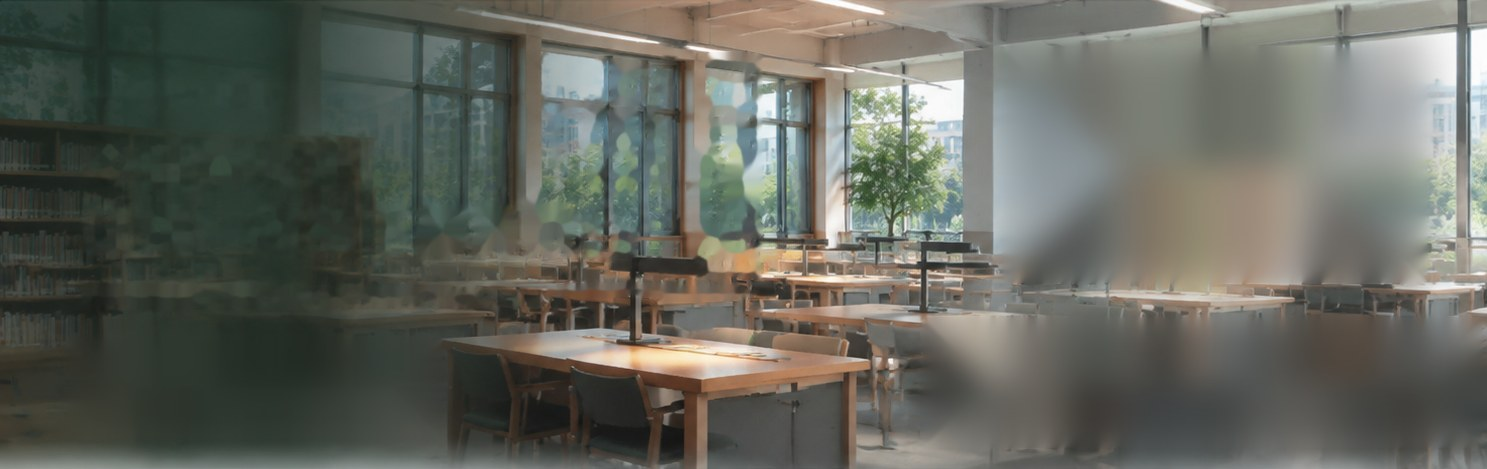
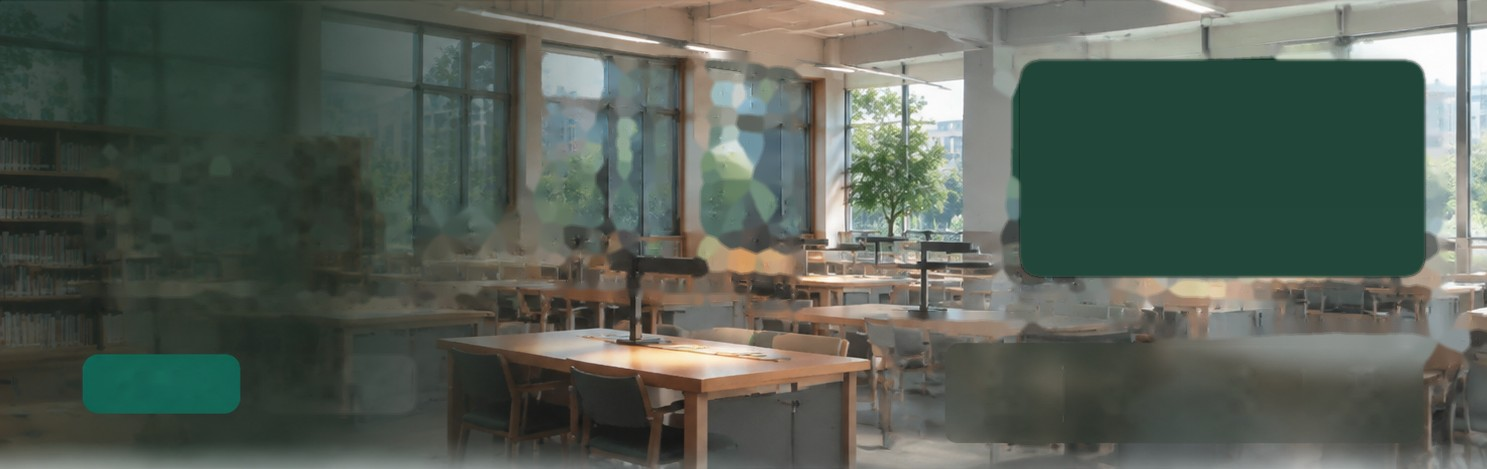
前端：首页hero改为清晰照片并按比例对齐黑板面板，统计区去模糊

diff --git a/frontend/src/views/HomeView.vue b/frontend/src/views/HomeView.vue
@@ -399,9 +399,10 @@ function timeText(row) {
   position: relative;
   /* 冲出版心 padding，左右铺到视口边缘 */
   margin: -28px calc(50% - 50vw) 0;
-  min-height: clamp(430px, 54vh, 640px);
+  /* 与照片同比例铺满，背景 100% 100% 不裁切，黑板面板可按百分比与照片位置精确对齐 */
+  aspect-ratio: 1487 / 469;
   padding: 0;
-  background: #24322e url('/images/home-hero-room.jpg') center / cover no-repeat;
+  background: #24322e url('/images/home-hero-room.jpg') 0 0 / 100% 100% no-repeat;
   overflow: hidden;
   display: flex;
   flex-direction: column;
@@ -485,8 +486,8 @@ function timeText(row) {
 .hero-kpi b { display: block; font-family: var(--font-display); font-size: 34px; font-weight: 600; line-height: 1.1; color: #ffffff; font-variant-numeric: tabular-nums; text-shadow: 0 2px 16px rgba(4, 10, 12, .5); }
 .hero-kpi span { display: block; margin-top: 8px; font-size: 13px; color: rgba(255, 255, 255, .85); }
 
-/* 右上角黑板面板：我的学习安排 */
-.board { position: absolute; top: 46px; right: max(40px, calc((100% - 1560px) / 2 + 40px)); z-index: 3; width: 372px; }
+/* 右上角黑板面板：我的学习安排（位置/尺寸按照片比例，完整覆盖背景中的面板区域） */
+.board { position: absolute; top: 14.5%; right: 4.2%; width: 26.9%; min-height: 44%; z-index: 3; }
 .board-surface {
   padding: 22px 24px;
   border-radius: 16px;
@@ -537,16 +538,31 @@ function timeText(row) {
 .zone-cta:hover { background: #17705b; }
 .zone-cta:focus-visible { outline: 2px solid #135e4d; outline-offset: 3px; }
 
-@media (max-width: 1200px) {
+@media (max-width: 1200px) and (min-width: 901px) {
+  .hero-inner { padding: 32px 28px 10px; }
+  .hero-bottom { padding: 0 28px 28px; }
+  .hero-title { font-size: clamp(24px, 3.9vw, 44px); }
+  .hero-bottom .hero-btn { height: 50px; padding: 0 28px; font-size: 16px; }
+  .hero-kpi { min-width: 64px; padding: 0 14px; }
+  .hero-kpi b { font-size: 26px; }
+  .hero-kpi span { font-size: 12px; margin-top: 6px; }
+  .board-surface { padding: 16px 18px; }
+  .board-head h3 { font-size: 16px; gap: 7px; }
+  .board-icon { width: 17px; height: 17px; }
+  .board-link { font-size: 11.5px; }
+  .board-hint { margin-top: 10px; font-size: 12.5px; }
+  .board-cta { margin-top: 10px; padding: 6px 14px; font-size: 12px; }
   .zone-grid { grid-template-columns: repeat(2, 1fr); }
-  .hero-inner { padding: 48px 28px 20px; }
-  .hero-bottom { padding: 0 28px 34px; }
-  .board { position: static; width: auto; max-width: 420px; margin: 16px 0 0 auto; }
-  .hero-kpi { padding: 0 20px; }
 }
-@media (max-width: 760px) {
+@media (max-width: 900px) {
   .zone-grid { grid-template-columns: 1fr; }
-  .hero-full { margin: -20px calc(50% - 50vw) 0; min-height: 0; }
+  .hero-full {
+    aspect-ratio: auto;
+    min-height: clamp(420px, 62vh, 560px);
+    background-image: url('/images/home-hero-room-m.jpg');
+    background-size: cover;
+    background-position: center;
+  }
   .hero-inner { padding: 30px 20px 16px; }
   .hero-title { font-size: clamp(26px, 8.2vw, 42px); }
   .hero-bottom { padding: 0 20px 24px; flex-direction: column; align-items: flex-start; gap: 16px; }
@@ -555,6 +571,7 @@ function timeText(row) {
   .hero-kpis { width: 100%; }
   .hero-kpi { flex: 1 1 0; min-width: 0; padding: 0 10px; }
   .hero-kpi b { font-size: 26px; }
+  .board { position: static; width: auto; max-width: 420px; min-height: 0; margin: 18px 0 0 auto; }
   .zone-head h3 { font-size: 22px; }
   .home-hello h1 { font-size: 28px; }
   .quick-grid { grid-template-columns: 1fr; }
